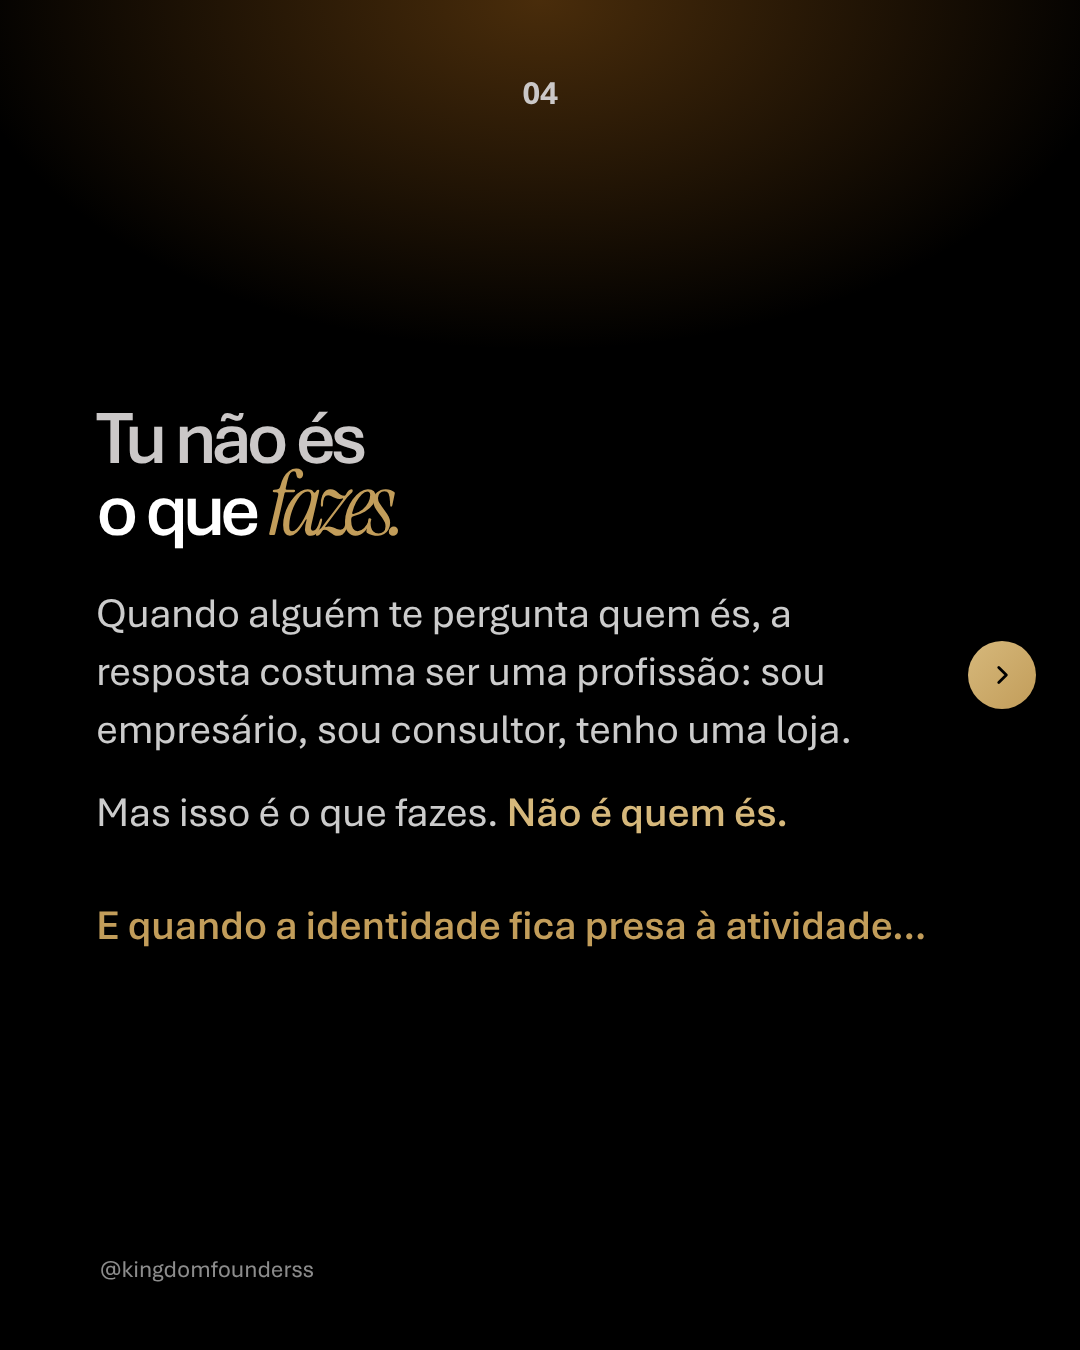
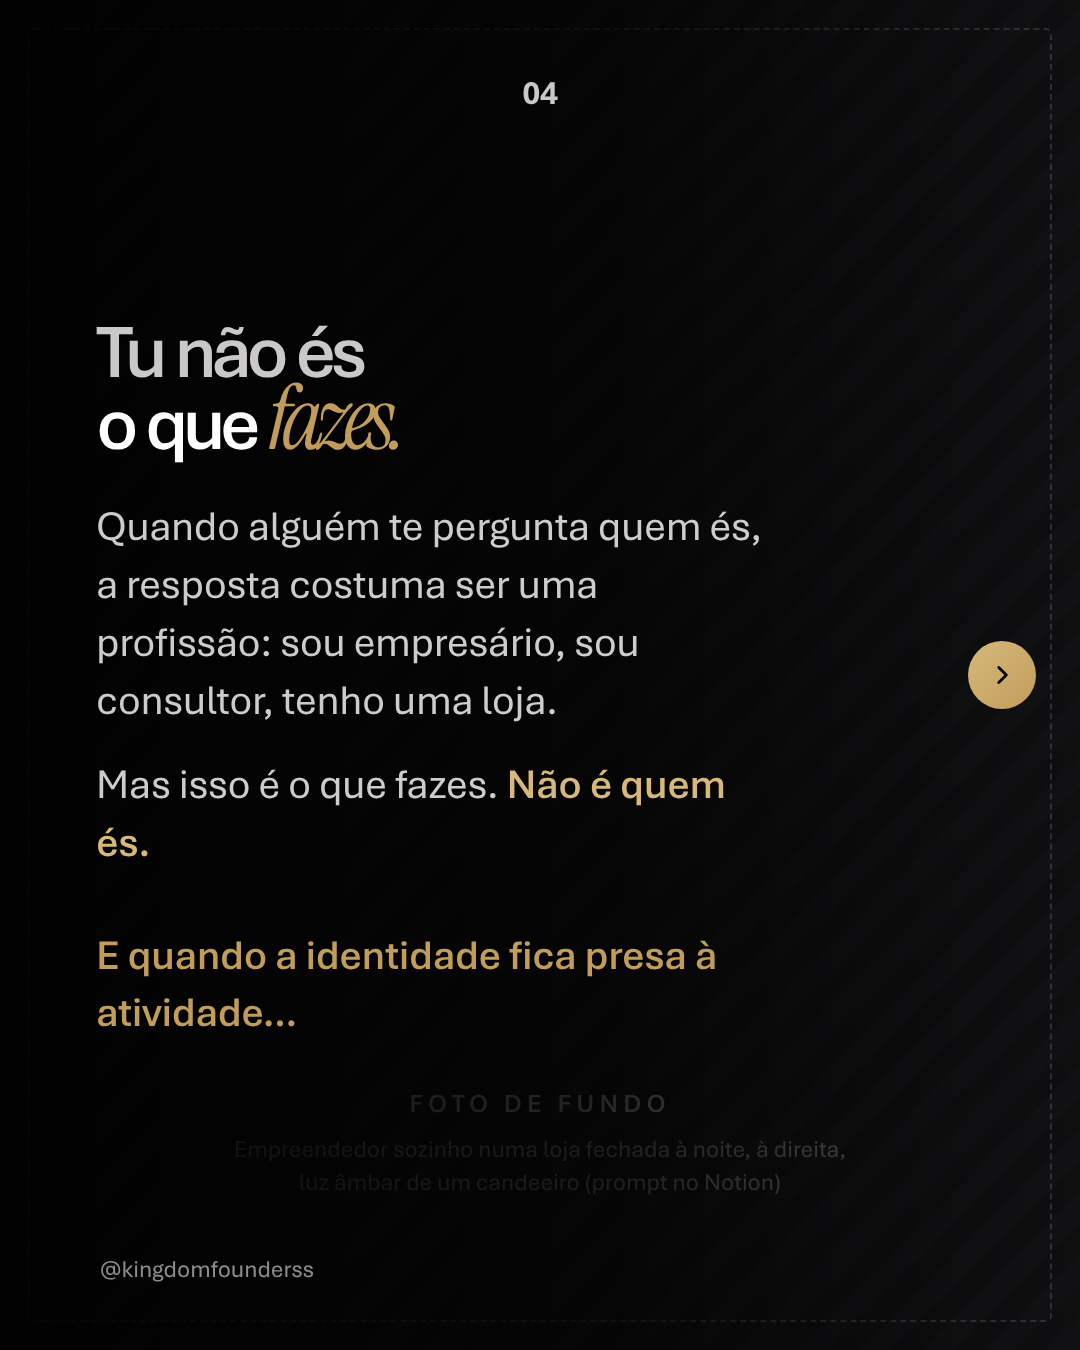
19/10: fotos de fundo a cada 3 slides (placeholders) e elementos visuais em 03, 05, 06 e 09
Claude-Session: https://claude.ai/code/session_01RgmbLLVHoJT5B4GNygU6zs

diff --git a/content/founders/semana-01/index.html b/content/founders/semana-01/index.html
@@ -59,6 +59,30 @@ body{ background:#2a2a2a; display:flex; flex-wrap:wrap; gap:40px; padding:40px; 
 .save svg{ width:28px; height:28px; }
 .handle.c{ left:0; right:0; text-align:center; }
 
+/* Elementos visuais dos carrosséis */
+.bgph{ position:absolute; inset:0; }
+.bgph img{ width:100%; height:100%; object-fit:cover; }
+.bgfade{ position:absolute; inset:0; }
+.scenes{ margin-top:40px; display:flex; flex-direction:column; gap:18px; }
+.scene{ display:grid; grid-template-columns:220px 60px 1fr; align-items:center; gap:20px; padding:26px 30px; border:1px solid rgba(214,175,98,.32); border-radius:16px; background:rgba(255,255,255,.035); }
+.scene span{ font-size:26px; font-weight:600; letter-spacing:.14em; text-transform:uppercase; color:var(--gold); }
+.scene svg{ width:60px; height:18px; color:rgba(255,255,255,.45); }
+.scene p{ font-size:36px; line-height:1.25; letter-spacing:-0.01em; color:var(--white); }
+.scene p.red{ color:var(--red); font-weight:600; }
+.chart{ display:block; width:100%; height:auto; margin-top:40px; overflow:visible; }
+.chart .ax{ font-size:22px; letter-spacing:.12em; text-transform:uppercase; fill:var(--mist); }
+.chart .lb{ font-size:34px; font-weight:600; }
+.chart .lb.g{ fill:var(--gold-light); } .chart .lb.w{ fill:rgba(255,255,255,.75); }
+.tags{ margin:44px 0 10px; display:flex; flex-direction:column; align-items:flex-start; gap:18px; }
+.tags span{ transform:rotate(var(--r)); padding:16px 28px; border-radius:12px; background:#F2EFEA; color:#141414; font-size:36px; font-weight:600; letter-spacing:-0.015em; box-shadow:0 10px 30px rgba(0,0,0,.5); }
+.tags span::before{ content:"“"; } .tags span::after{ content:"”"; }
+.vs{ margin-top:40px; display:grid; grid-template-columns:1fr 44px 1fr; align-items:center; column-gap:18px; row-gap:16px; }
+.vh{ font-size:24px; font-weight:600; letter-spacing:.14em; text-transform:uppercase; color:var(--mist); padding-bottom:6px; border-bottom:1px solid rgba(255,255,255,.18); }
+.vh.g{ color:var(--gold); border-color:rgba(214,175,98,.5); }
+.vo{ font-size:32px; line-height:1.25; color:rgba(255,255,255,.5); text-decoration:line-through; text-decoration-color:rgba(255,255,255,.3); }
+.vn{ font-size:34px; line-height:1.25; color:var(--white); padding:18px 22px; border-radius:14px; background:rgba(214,175,98,.12); border:1px solid rgba(214,175,98,.35); }
+.vn b{ color:var(--gold-light); font-weight:600; }
+.vs svg{ width:30px; height:30px; color:var(--gold); }
 /* Estático de frase · Espiritualidade (caixa alta, partilhável) */
 .frase-esp{ position:absolute; left:100px; right:100px; top:0; bottom:0; display:flex; align-items:center; }
 .frase-esp p{ font-size:84px; line-height:1.06; letter-spacing:-0.02em; font-weight:700; text-transform:uppercase; color:var(--white); }
@@ -114,17 +138,23 @@ body{ background:#2a2a2a; display:flex; flex-wrap:wrap; gap:40px; padding:40px; 
 <section class="post" data-file="2026-10-19-quem-sou-eu/03.png">
   <div class="glow"></div><div class="num">03</div>
   <div class="content">
-    <p class="lead"><span style="color:var(--red)">Cada mês mau parece um veredicto sobre o teu valor.</span></p>
-    <p class="p">Cada crítica confirma um rótulo antigo. E cada conquista dura pouco, porque nunca é suficiente.</p>
-    <p class="p">Sem identidade, o negócio passa a carregar <b>um peso que não é dele.</b></p>
+    <p class="lead" style="font-size:50px">Sem resposta, tudo vira um julgamento:</p>
+    <div class="scenes">
+      <div class="scene"><span>Mês mau</span><svg><use href="#arrow-long"/></svg><p class="red">um veredicto sobre o teu valor</p></div>
+      <div class="scene"><span>Crítica</span><svg><use href="#arrow-long"/></svg><p>confirma um rótulo antigo</p></div>
+      <div class="scene"><span>Conquista</span><svg><use href="#arrow-long"/></svg><p>dura pouco, nunca é suficiente</p></div>
+    </div>
+    <p class="p" style="margin-top:44px">Sem identidade, o negócio passa a carregar <b>um peso que não é dele.</b></p>
     <p class="bridge">E o motivo é que a maioria de nós aprendeu a responder a esta pergunta da forma errada:</p>
   </div>
   <div class="next"><svg><use href="#chev"/></svg></div><div class="handle">@kingdomfounderss</div>
 </section>
 
 <section class="post" data-file="2026-10-19-quem-sou-eu/04.png">
-  <div class="glow"></div><div class="num">04</div>
-  <div class="content">
+  <div class="bgph"><div class="ph" style="inset:0;justify-content:flex-end;padding-bottom:150px"><b>Foto de fundo</b><span>Empreendedor sozinho numa loja fechada à noite, à direita, luz âmbar de um candeeiro (prompt no Notion)</span></div></div>
+  <div class="bgfade" style="background:linear-gradient(90deg,rgba(0,0,0,.94) 0%,rgba(0,0,0,.82) 55%,rgba(0,0,0,.45) 100%)"></div>
+  <div class="num">04</div>
+  <div class="content" style="right:300px">
     <div class="ttl" style="--ts:76px"><div class="t1">Tu não és</div><div>o que <span class="it">fazes.</span></div></div>
     <p class="p">Quando alguém te pergunta quem és, a resposta costuma ser uma profissão: sou empresário, sou consultor, tenho uma loja.</p>
     <p class="p">Mas isso é o que fazes. <b>Não é quem és.</b></p>
@@ -137,8 +167,17 @@ body{ background:#2a2a2a; display:flex; flex-wrap:wrap; gap:40px; padding:40px; 
   <div class="glow"></div><div class="num">05</div>
   <div class="content">
     <p class="lead">…o teu valor sobe e desce com a <b>faturação.</b></p>
-    <p class="p">Num bom mês, sentes-te capaz.</p>
-    <p class="p"><b>Num mau mês, sentes-te uma fraude.</b></p>
+    <svg class="chart" viewBox="0 0 856 430" aria-hidden="true">
+      <line x1="0" y1="400" x2="856" y2="400" stroke="rgba(255,255,255,.25)" stroke-width="2"/>
+      <text x="0" y="428" class="ax">Faturação, mês a mês</text>
+      <path d="M0 300 C70 300 90 120 170 110 S270 330 340 340 S450 70 520 80 S640 360 700 350 S800 200 856 210" fill="none" stroke="url(#gl)" stroke-width="6" stroke-linecap="round"/>
+      <defs><linearGradient id="gl" x1="0" x2="1"><stop offset="0" stop-color="#E9CF8F"/><stop offset="1" stop-color="#C9A45C"/></linearGradient></defs>
+      <circle cx="522" cy="80" r="12" fill="#000" stroke="#E9CF8F" stroke-width="5"/>
+      <circle cx="338" cy="340" r="12" fill="#000" stroke="rgba(255,255,255,.6)" stroke-width="5"/>
+      <text x="548" y="62" class="lb g">“Sou capaz.”</text>
+      <text x="364" y="372" class="lb w">“Sou uma fraude.”</text>
+    </svg>
+    <p class="p" style="margin-top:34px">Num bom mês, sentes-te capaz. <b>Num mau mês, sentes-te uma fraude.</b></p>
     <p class="bridge">E há outra forma de responder mal a esta pergunta…</p>
   </div>
   <div class="next"><svg><use href="#chev"/></svg></div><div class="handle">@kingdomfounderss</div>
@@ -148,7 +187,7 @@ body{ background:#2a2a2a; display:flex; flex-wrap:wrap; gap:40px; padding:40px; 
   <div class="glow"></div><div class="num">06</div>
   <div class="content">
     <div class="ttl" style="--ts:76px"><div class="t1">Tu não és o que</div><div><span class="it">disseram</span> de ti.</div></div>
-    <div class="quotes"><span>Não tens perfil para isso.</span><span>Começa mais pequeno.</span><span>Isso não é para pessoas como tu.</span></div>
+    <div class="tags"><span style="--r:-2deg">Não tens perfil para isso.</span><span style="--r:1.5deg;margin-left:90px">Começa mais pequeno.</span><span style="--r:-1deg;margin-left:30px">Isso não é para pessoas como tu.</span></div>
     <p class="p">Frases ditas por pais, professores, chefes ou por ti mesmo, que se tornaram teto. Um rótulo descreve uma opinião. <b>Não define quem és.</b></p>
     <p class="bridge">Então, se não és o que fazes nem o que disseram de ti, quem és?</p>
   </div>
@@ -156,8 +195,10 @@ body{ background:#2a2a2a; display:flex; flex-wrap:wrap; gap:40px; padding:40px; 
 </section>
 
 <section class="post" data-file="2026-10-19-quem-sou-eu/07.png">
-  <div class="glow"></div><div class="num">07</div>
-  <div class="content">
+  <div class="bgph"><div class="ph" style="inset:0;justify-content:flex-end;padding-bottom:150px"><b>Foto de fundo</b><span>Homem de olhos fechados e rosto erguido sob um feixe de luz quente vindo de cima, à direita, sala escura (prompt no Notion)</span></div></div>
+  <div class="bgfade" style="background:linear-gradient(90deg,rgba(0,0,0,.94) 0%,rgba(0,0,0,.82) 55%,rgba(0,0,0,.45) 100%)"></div>
+  <div class="num">07</div>
+  <div class="content" style="right:300px">
     <div class="ttl" style="--ts:76px"><div class="t1">Tu és quem</div><div>Deus diz que <span class="it">és.</span></div></div>
     <p class="p">A tua identidade não nasce no mercado nem na opinião dos outros. <b>Nasce em quem te criou.</b></p>
     <p class="bridge">E isso está escrito logo no início:</p>
@@ -178,16 +219,22 @@ body{ background:#2a2a2a; display:flex; flex-wrap:wrap; gap:40px; padding:40px; 
 <section class="post" data-file="2026-10-19-quem-sou-eu/09.png">
   <div class="glow low"></div><div class="num">09</div>
   <div class="content">
-    <p class="lead">Deixas de vender para provar o teu valor e passas a <b>vender para servir.</b></p>
-    <p class="p">Uma crítica passa a ser informação, não sentença. Um mês mau passa a ser um problema para resolver, <b>não um veredicto sobre&nbsp;ti.</b></p>
-    <p class="p">A identidade não te tira os desafios. Dá-te chão firme para os enfrentar.</p>
+    <p class="lead" style="font-size:50px">Quando sabes quem és, tudo muda de lugar:</p>
+    <div class="vs">
+      <div class="vh">Sem identidade</div><div></div><div class="vh g">Com identidade</div>
+      <div class="vo">Vender para provar o teu valor</div><svg><use href="#chev"/></svg><div class="vn">Vender para <b>servir</b></div>
+      <div class="vo">Crítica é sentença</div><svg><use href="#chev"/></svg><div class="vn">Crítica é <b>informação</b></div>
+      <div class="vo">Mês mau é veredicto</div><svg><use href="#chev"/></svg><div class="vn">Mês mau é <b>problema para resolver</b></div>
+    </div>
+    <p class="p" style="margin-top:44px">A identidade não te tira os desafios. Dá-te chão firme para os enfrentar.</p>
     <p class="bridge">Mas “quem sou eu?” é só o começo…</p>
   </div>
   <div class="next"><svg><use href="#chev"/></svg></div><div class="handle">@kingdomfounderss</div>
 </section>
 
 <section class="post" data-file="2026-10-19-quem-sou-eu/10.png">
-  <div class="glow"></div>
+  <div class="bgph"><div class="ph" style="inset:0;justify-content:flex-start;padding-top:70px"><b>Foto de fundo</b><span>Corredor escuro com cinco portas, a primeira aberta com luz âmbar a sair (prompt no Notion)</span></div></div>
+  <div class="bgfade" style="background:radial-gradient(70% 60% at 50% 50%,rgba(0,0,0,.9),rgba(0,0,0,.6))"></div>
   <div class="cta">
     <img class="logo" src="../../brand/founders/assets/kingdom-founders-simbolo.svg" alt="Kingdom Founders">
     <div class="ttl" style="--ts:70px"><div class="t1">Esta é só a</div><div><span class="it">primeira</span> de cinco perguntas.</div></div>
